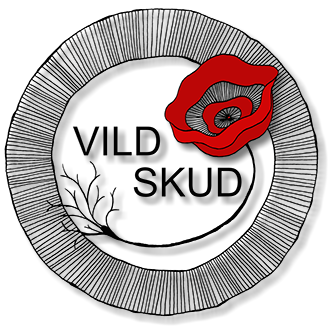
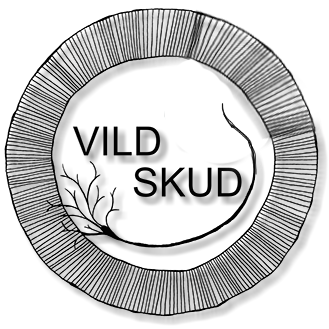
header og color

Changed region(s): [[0.4863, 0.0304, 0.9726, 0.5471]]

diff --git a/src/billetter.html b/src/billetter.html
@@ -9,93 +9,111 @@
     <link rel="stylesheet" href="https://use.typekit.net/hjn8wpi.css" />
   </head>
   <body>
-    <header>
-      <img class="w-8" src="./img/logo.png" alt="" />
-      <div class="menuknap">
-        <div class="menuknap_burger"></div>
+    <!-- --------header start------------ -->
+
+    <header class="sticky top-0 m-auto mb-8 mt-4 max-w-2xl lg:mt-20 lg:mb-20">
+      <div id="header">
+        <img
+          id="logo"
+          class=""
+          src="./img/vildskud-identiet-transparent-1.png"
+          alt=""
+        />
+        <div class="menuknap">
+          <div class="menuknap_burger"></div>
+        </div>
+        <ul id="menu" class="z-100 mt-10 hidden text-left">
+          <div class="">
+            <h1 class="ml-4 text-center text-lg text-black">
+              Vildskud <br />
+              Festival <br />
+              2022
+            </h1>
+          </div>
+          <div class="mt-10">
+            <li><a href="index.html">Forside</a></li>
+            <li><a href="program.html">Program</a></li>
+            <li><a href="billetter.html">Billetter</a></li>
+            <li><a href="minliste.html">Mit Program</a></li>
+            <li><a href="pop-up.html">Om os</a></li>
+            <li><a href="##">Bliv frivillig</a></li>
+            <li><a href="##">Kontakt</a></li>
+          </div>
+        </ul>
       </div>
-      <ul id="menu" class="hidden">
-        <li><a href="index.html">Forside</a></li>
-        <li><a href="##">Program</a></li>
-        <li><a href="billetter.html">Biletter</a></li>
-        <li><a href="##">Mit Prorgram</a></li>
-        <li><a href="##">Om os</a></li>
-        <li><a href="##">Bliv frivillig</a></li>
-        <li><a href="##">Kontakt</a></li>
-      </ul>
     </header>
+
+    <!-- --------header slut ----------- -->
     <main class="">
-
-
       <!-- section kort start -->
 
-      <section class="grid m-auto justify-center max-w-[1000px] pb-28"> 
-        <h1 class="text-center pb-12">BILLETTER</h1>
-        <div class="grid gap-6 md:grid-cols-2 grid-rows-2">
-        <div class="px-4">
-          <div class="bg-[#62ada2] rounded-xl grid px-4 py-6">
-            <div class="pb-2">
-              <h4 class="font-bold text-[#fee3d6]">FESTIVAL PASS</h4>
-              <p class="font-bold text-[#fee3d6]">800 DKK</p>
+      <section class="m-auto grid max-w-[1000px] justify-center pb-28">
+        <h1 class="pb-12 text-center">BILLETTER</h1>
+        <div class="grid grid-rows-2 gap-6 md:grid-cols-2">
+          <div class="px-4">
+            <div class="grid rounded-xl bg-[#62ada2] px-4 py-6">
+              <div class="pb-2">
+                <h4 class="font-bold text-[#fee3d6]">FESTIVAL PASS</h4>
+                <p class="font-bold text-[#fee3d6]">800 DKK</p>
+              </div>
+              <p class="pb-4">
+                Med festival passet får du den full expereince. Du har du adgang
+                til alle event i hele ugen og du har fri adgang i alle vores
+                afdelinger.
+              </p>
+              <button class="justify-center rounded-xl">Køb Billet</button>
             </div>
-            <p class="pb-4">Med festival passet får du den full expereince. Du har du adgang til alle event i hele ugen og du har fri adgang i alle vores 
-              afdelinger.  </p>
-            <button class="justify-center rounded-xl"> Køb Billet</button>
-          </div>
-        </div>
-
-        <div class="px-4">
-          <div class="bg-[#62ada2] rounded-xl grid px-4 py-6">
-            <div class="pb-2">
-              <h4 class="font-bold text-[#fee3d6]">WEEKEND PASS</h4>
-              <p class="font-bold text-[#fee3d6]">400 DKK</p>
-            </div>
-            <p class="pb-4">Med weekend passet har du adgang til alle 5 events i weekenden og du har fri adgang i alle vores afdelinger.   </p>
-            <button class="justify-center rounded-xl"> Køb Billet</button>
           </div>
 
-        </div>
-
-        <div class="px-4">
-          <div class="bg-[#62ada2] rounded-xl grid px-4 py-6">
-            <div class="pb-2">
-              <h4 class="font-bold text-[#fee3d6]">EN DAGS PASS</h4>
-              <p class="font-bold text-[#fee3d6]">250 DKK</p>
+          <div class="px-4">
+            <div class="grid rounded-xl bg-[#62ada2] px-4 py-6">
+              <div class="pb-2">
+                <h4 class="font-bold text-[#fee3d6]">WEEKEND PASS</h4>
+                <p class="font-bold text-[#fee3d6]">400 DKK</p>
+              </div>
+              <p class="pb-4">
+                Med weekend passet har du adgang til alle 5 events i weekenden
+                og du har fri adgang i alle vores afdelinger.
+              </p>
+              <button class="justify-center rounded-xl">Køb Billet</button>
             </div>
-            <p class="pb-4">Med en dags passet har du adgang til alle 3 events i løbet af dagen og du har fri adgang i alle vores afdelinger.   </p>
-            <button class="justify-center rounded-xl"> Køb Billet</button>
-          </div>
-        </div>
-        <div class="px-4">
-          <div class="bg-[#62ada2] rounded-xl grid px-4 py-6">
-            <div class="pb-2">
-              <h4 class="font-bold text-[#fee3d6]">FESTIVAL PASS</h4>
-              <p class="font-bold text-[#fee3d6]">800 DKK</p>
-            </div>
-            <p class="pb-4">Med festival passet får du den full expereince. Du har du adgang til alle event i hele ugen og du har fri adgang i alle vores 
-              afdelinger.    </p>
-            <button class="justify-center rounded-xl"> Køb Billet</button>
           </div>
 
+          <div class="px-4">
+            <div class="grid rounded-xl bg-[#62ada2] px-4 py-6">
+              <div class="pb-2">
+                <h4 class="font-bold text-[#fee3d6]">EN DAGS PASS</h4>
+                <p class="font-bold text-[#fee3d6]">250 DKK</p>
+              </div>
+              <p class="pb-4">
+                Med en dags passet har du adgang til alle 3 events i løbet af
+                dagen og du har fri adgang i alle vores afdelinger.
+              </p>
+              <button class="justify-center rounded-xl">Køb Billet</button>
+            </div>
+          </div>
+          <div class="px-4">
+            <div class="grid rounded-xl bg-[#62ada2] px-4 py-6">
+              <div class="pb-2">
+                <h4 class="font-bold text-[#fee3d6]">FESTIVAL PASS</h4>
+                <p class="font-bold text-[#fee3d6]">800 DKK</p>
+              </div>
+              <p class="pb-4">
+                Med festival passet får du den full expereince. Du har du adgang
+                til alle event i hele ugen og du har fri adgang i alle vores
+                afdelinger.
+              </p>
+              <button class="justify-center rounded-xl">Køb Billet</button>
+            </div>
+          </div>
         </div>
-      </div>
       </section>
-    
-
-
-
-
-
-
-
-
 
       <!-- FOOTER -->
-      <footer class="mt-10 w-[100vw] mt-0 m-auto fixed bottom-0 z-10">
+      <footer class="fixed bottom-0 z-10 m-auto mt-10 mt-0 w-[100vw]">
         <div>
-          <div class="h-0.5 flex m-auto max-w-[1000px] bg-black"></div>
-          <div class="flex justify-between max-w-[1000px] m-auto">
-  
+          <div class="m-auto flex h-0.5 max-w-[1000px] bg-black"></div>
+          <div class="m-auto flex max-w-[1000px] justify-between">
             <a href="##">
               <svg
                 class="m-3"
@@ -147,11 +165,10 @@
                 fill-opacity="0.5"
               />
             </svg>
-  
+
             <img class="m-3 w-8" src="./img/heart.svg" alt="" />
           </div>
-        </div>     
-        
+        </div>
       </footer>
     </main>
 

diff --git a/src/index.html b/src/index.html
@@ -21,23 +21,43 @@
         id="hero"
         class="mt-0 -ml-2.5 -mr-2.5 h-52 sm:h-80 md:min-h-full md:min-w-full"
       >
-        <header class="sticky top-0">
+        <!-- --------header start------------ -->
+
+        <header
+          class="sticky top-0 m-auto mb-8 mt-4 max-w-2xl lg:mt-20 lg:mb-20"
+        >
           <div id="header">
-            <img class="w-8" src="./img/logo.png" alt="" />
+            <img
+              id="logo"
+              class=""
+              src="./img/vildskud-identiet-transparent-1.png"
+              alt=""
+            />
             <div class="menuknap">
               <div class="menuknap_burger"></div>
             </div>
-            <ul id="menu" class="hidden">
-              <li><a href="index.html">Forside</a></li>
-              <li><a href="program.html">Program</a></li>
-              <li><a href="billetter.html">Biletter</a></li>
-              <li><a href="minliste.html">Mit Prorgram</a></li>
-              <li><a href="pop-up.html">Om os</a></li>
-              <li><a href="##">Bliv frivillig</a></li>
-              <li><a href="##">Kontakt</a></li>
+            <ul id="menu" class="z-100 mt-10 hidden text-left">
+              <div class="">
+                <h1 class="ml-4 text-center text-lg text-black">
+                  Vildskud <br />
+                  Festival <br />
+                  2022
+                </h1>
+              </div>
+              <div class="mt-10">
+                <li><a href="index.html">Forside</a></li>
+                <li><a href="program.html">Program</a></li>
+                <li><a href="billetter.html">Billetter</a></li>
+                <li><a href="minliste.html">Mit Program</a></li>
+                <li><a href="pop-up.html">Om os</a></li>
+                <li><a href="##">Bliv frivillig</a></li>
+                <li><a href="##">Kontakt</a></li>
+              </div>
             </ul>
           </div>
         </header>
+
+        <!-- --------header slut ----------- -->
         <h1 class="text-center text-3xl sm:text-4xl md:text-6xl">
           VILDSKUD <br />
           FESTIVAL

diff --git a/src/minliste.html b/src/minliste.html
@@ -9,21 +9,41 @@
     <link rel="stylesheet" href="https://use.typekit.net/hjn8wpi.css" />
   </head>
   <body>
-    <header>
-      <img class="w-8" src="./img/logo.png" alt="" />
-      <div class="menuknap">
-        <div class="menuknap_burger"></div>
+    <!-- --------header start------------ -->
+
+    <header class="sticky top-0 m-auto mb-8 mt-4 max-w-2xl lg:mt-20 lg:mb-20">
+      <div id="header">
+        <img
+          id="logo"
+          class=""
+          src="./img/vildskud-identiet-transparent-1.png"
+          alt=""
+        />
+        <div class="menuknap">
+          <div class="menuknap_burger"></div>
+        </div>
+        <ul id="menu" class="z-100 mt-10 hidden text-left">
+          <div class="">
+            <h1 class="ml-4 text-center text-lg text-black">
+              Vildskud <br />
+              Festival <br />
+              2022
+            </h1>
+          </div>
+          <div class="mt-10">
+            <li><a href="index.html">Forside</a></li>
+            <li><a href="program.html">Program</a></li>
+            <li><a href="billetter.html">Billetter</a></li>
+            <li><a href="minliste.html">Mit Program</a></li>
+            <li><a href="pop-up.html">Om os</a></li>
+            <li><a href="##">Bliv frivillig</a></li>
+            <li><a href="##">Kontakt</a></li>
+          </div>
+        </ul>
       </div>
-      <ul id="menu" class="hidden">
-        <li><a href="index.html">Forside</a></li>
-        <li><a href="##">Program</a></li>
-        <li><a href="##">Biletter</a></li>
-        <li><a href="##">Mit Prorgram</a></li>
-        <li><a href="##">Om os</a></li>
-        <li><a href="##">Bliv frivillig</a></li>
-        <li><a href="##">Kontakt</a></li>
-      </ul>
     </header>
+
+    <!-- --------header slut ----------- -->
     <main class="h-[90vh]">
       <section>
         <h1 class="text-center">Skema</h1>

diff --git a/src/tailwind.css b/src/tailwind.css
@@ -8,14 +8,24 @@
     --text: "montserrat", sans-serif;
     --h1_text: "bungee", sans-serif;
 
-    /* Farver */
+    /* Farver
     --primary: #fc653a;
     --secondary: #62ada2;
     --bgcolor: #fee3d6;
     --grey: #272727;
     --sort: #000000;
     --hvid: #ffffff;
+    --txtcolor: #292828; */
+
+    /* Farver */
+    --primary: #20ba83;
+    --secondary: #fbf27f;
+    --bgcolor: #fcfcdc;
+    --grey: #272727;
+    --sort: #000000;
+    --hvid: #ffffff;
     --txtcolor: #292828;
+    --yellow: #fbf27f;
 
     /* Sizes */
     --font_h1: clamp(3.5rem, 1.6591rem + 1.4545vw, 2.75rem);
@@ -234,17 +244,16 @@ audio {
   #menu {
     list-style-type: none;
     transition: transform 0.3s;
-    background-color: var(--primary);
+    background-color: var(--yellow);
     text-align: right;
     transition: all 1s ease-in-out;
     position: absolute;
     top: 0;
     right: -1%;
     width: 15rem;
-    height: 500%;
     padding-top: 5rem;
     z-index: 0;
-    height: 60vh;
+    height: 70vh;
     margin-top: 10px;
   }
 
